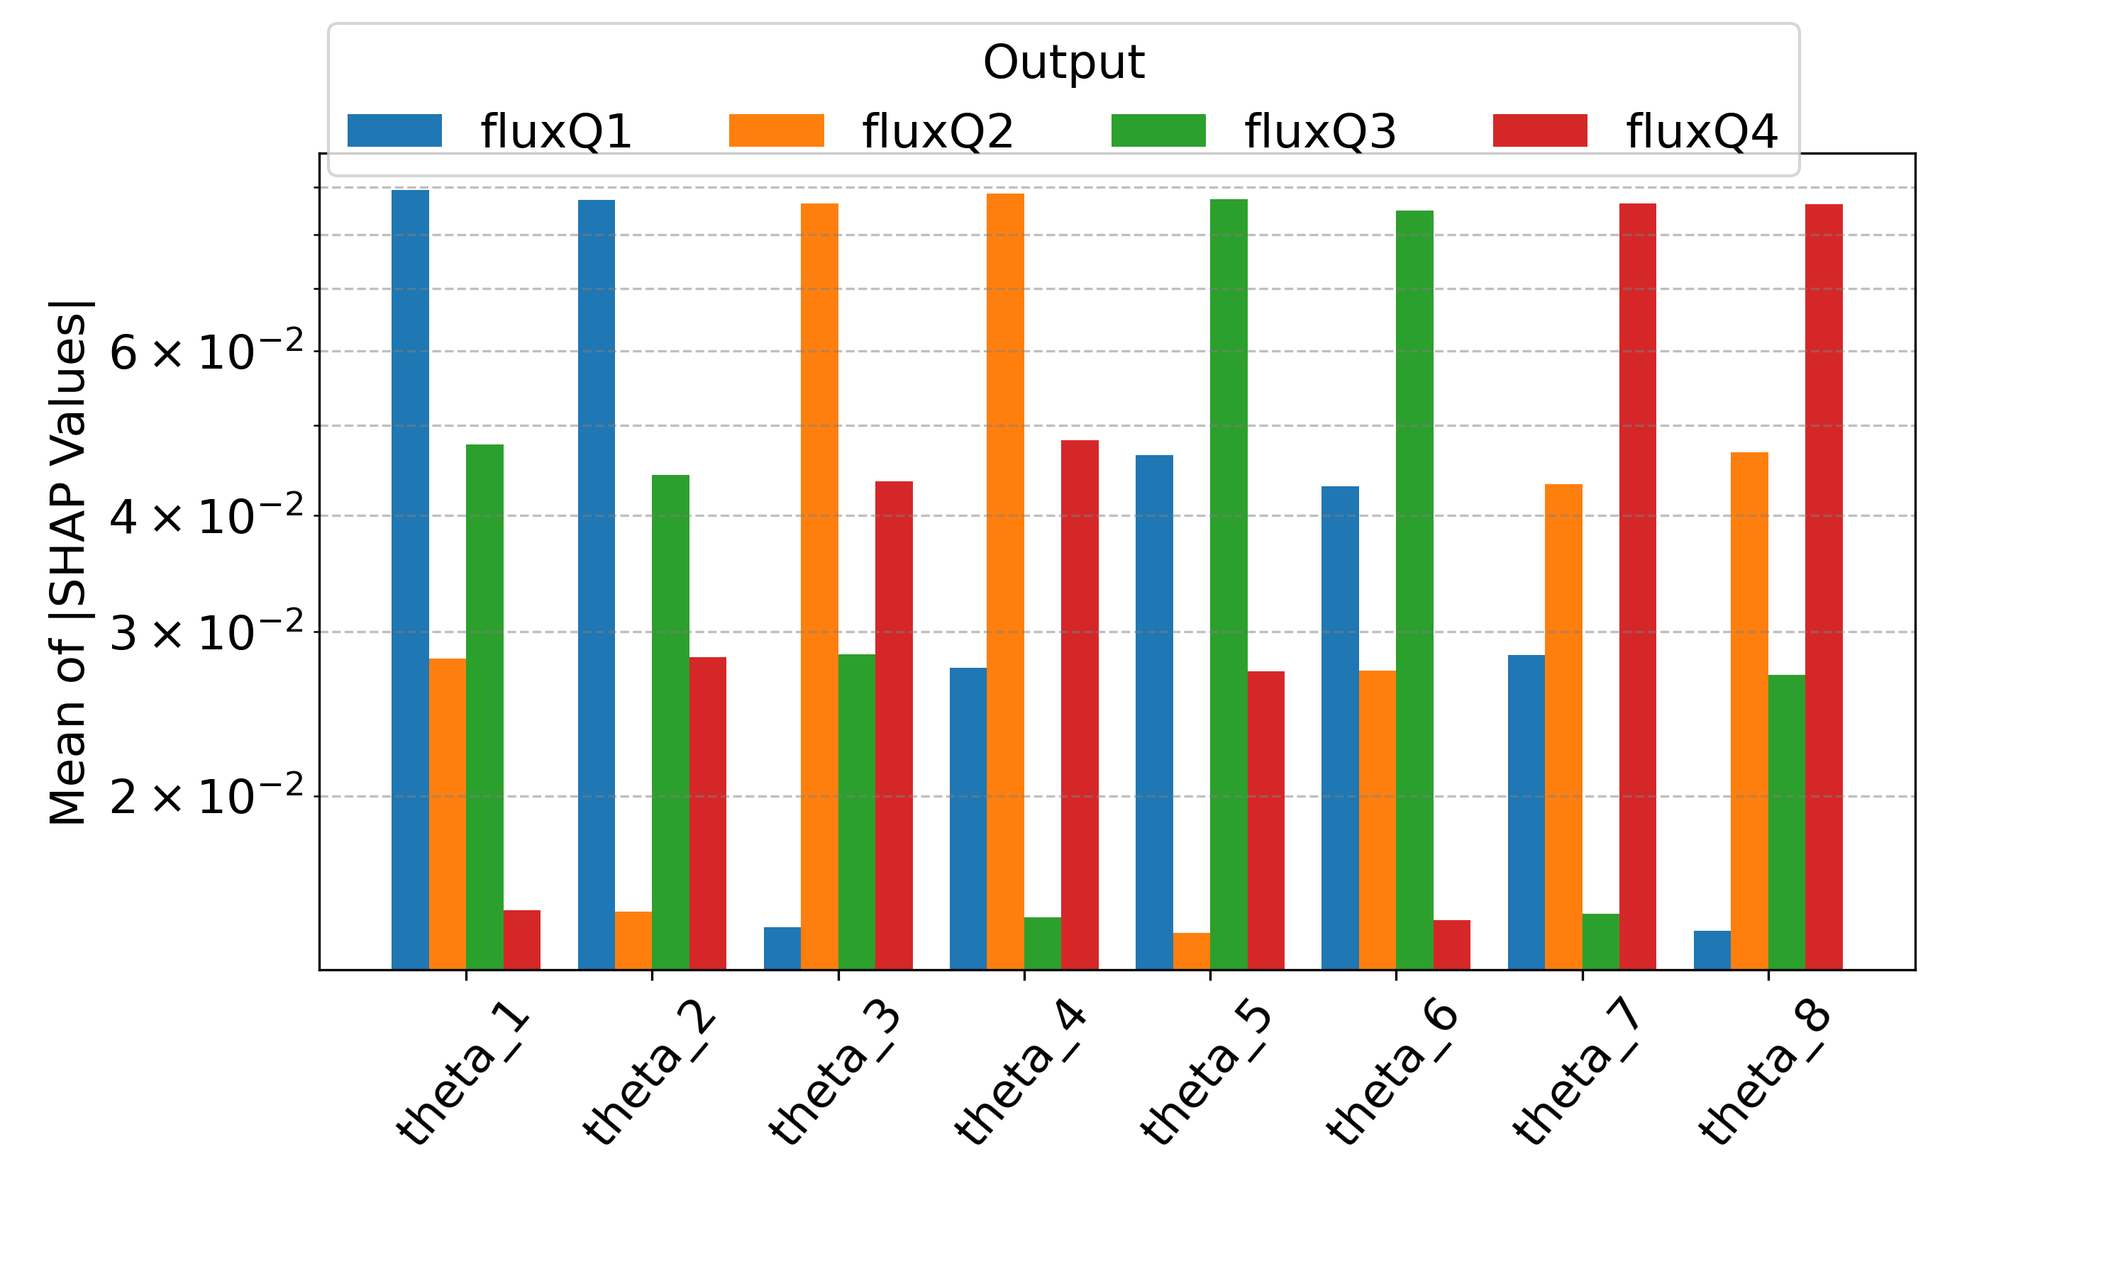
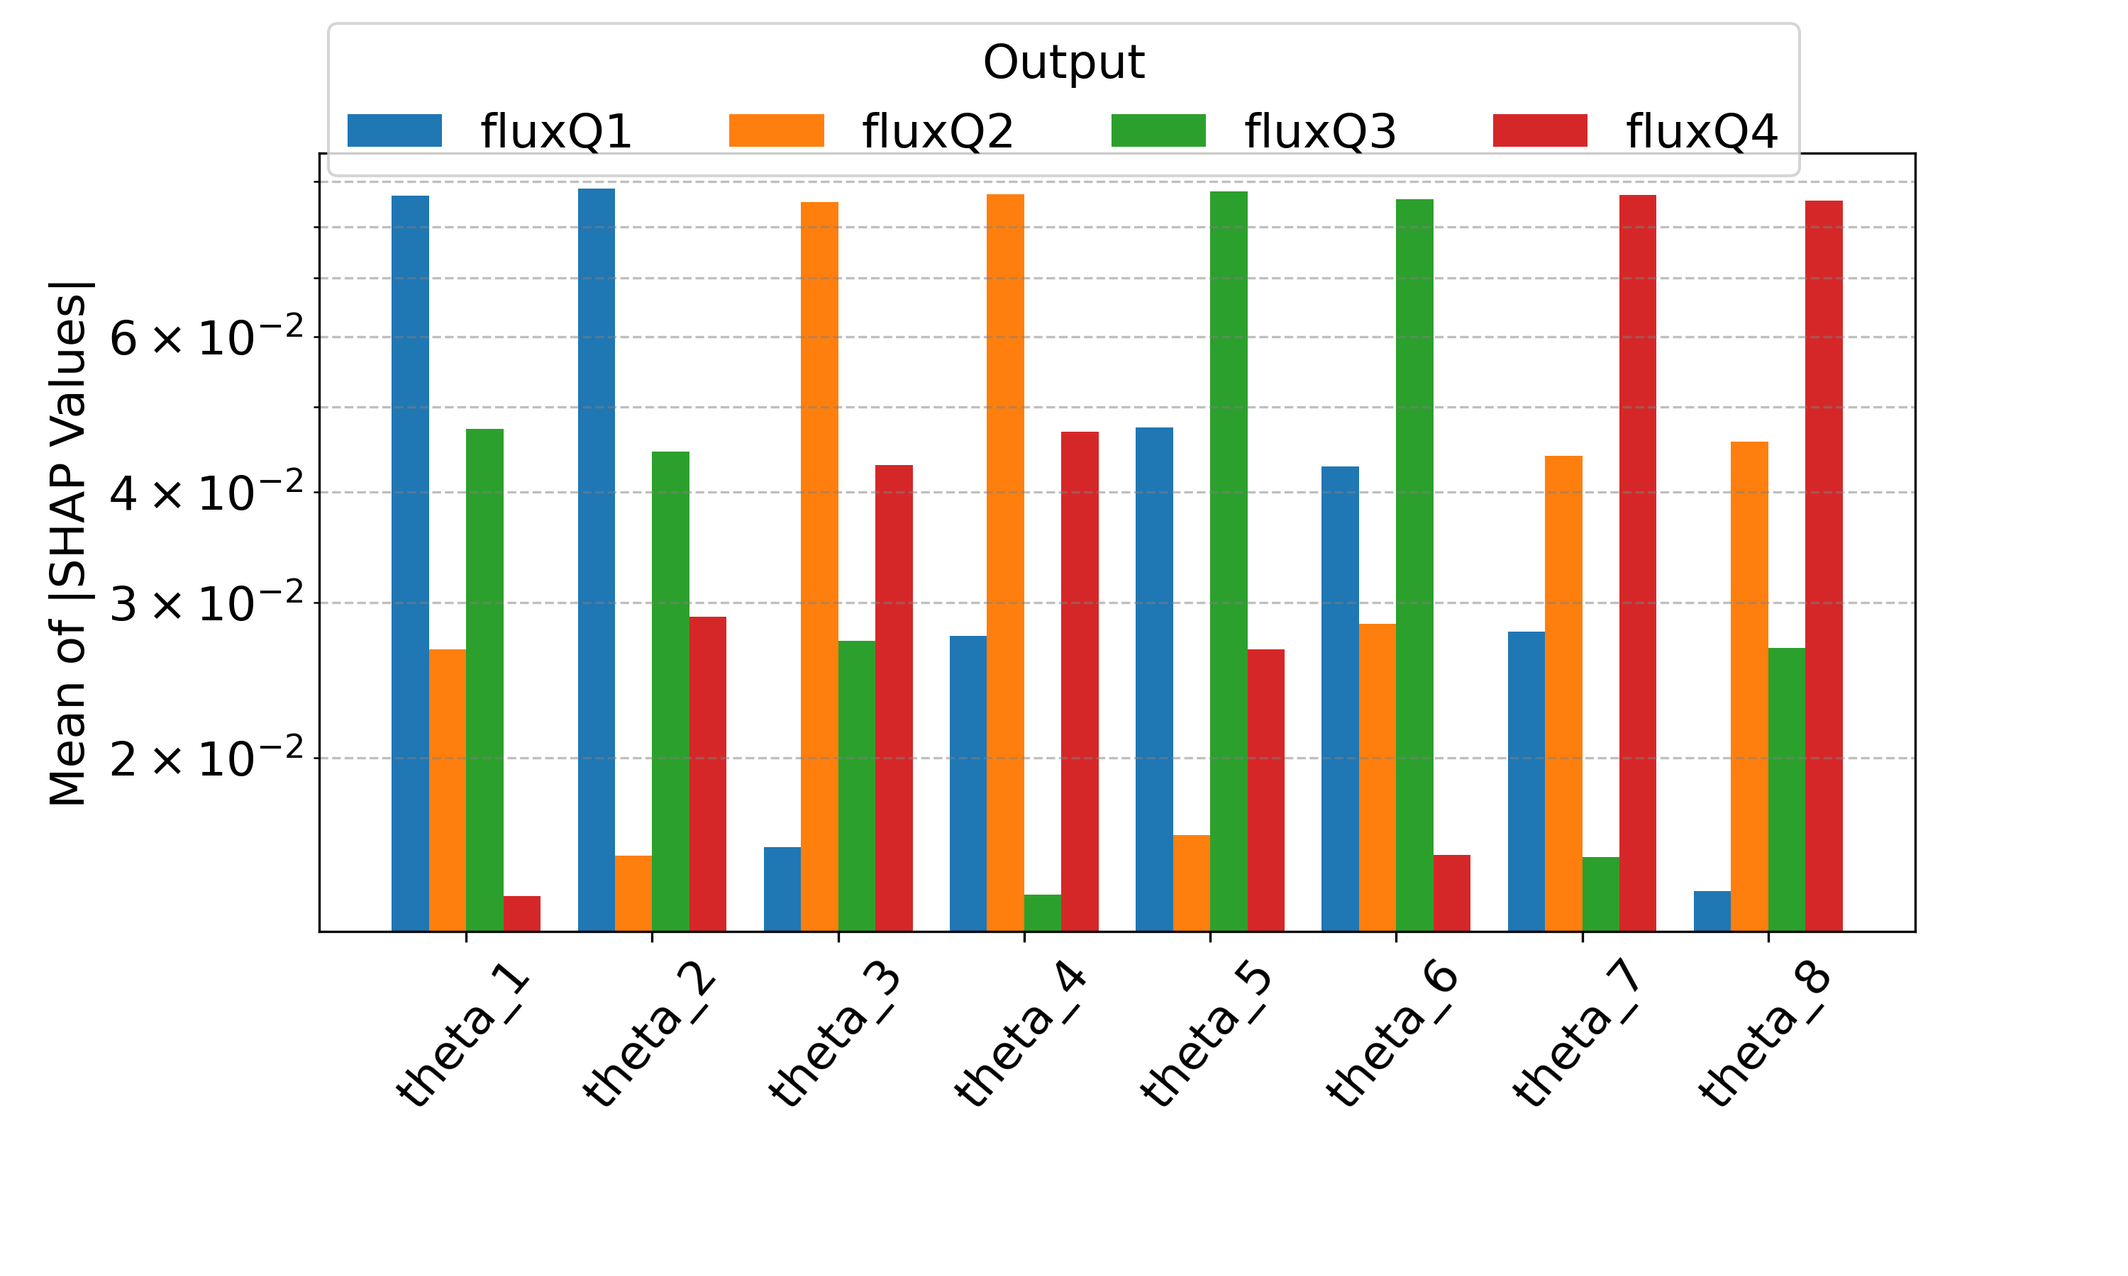
re-runs htgr, fp, and xs for sig figs

diff --git a/fnn.py b/fnn.py
@@ -91,7 +91,7 @@ def fit_fnn(params, plot=False, save_as=None):
     y_preds, y_tests = get_metrics(model, test_loader, dataset['y_scaler'], dataset, save_as=save_as)
     return model.cpu(), path
 
-def get_metrics(model, test_loader, scaler, dataset, save_as, p=5):
+def get_metrics(model, test_loader, scaler, dataset, save_as, p=20):
     """This function generates metrics on the original model training call, not with a loaded model.
 
     Args:
@@ -209,24 +209,24 @@ if __name__=="__main__":
     torch.set_default_dtype(torch.float64)
     device = torch.device('cuda' if torch.cuda.is_available() else 'cpu')
     pymaise_params = {
-        'chf': {
-            'hidden_nodes' : [231, 138, 267],
-            'num_epochs' : 200,
-            'batch_size' : 64,
-            'learning_rate' : 0.0009311391232267503,
-            'use_dropout': True,
-            'dropout_prob': 0.4995897609454529,
-            'dataset': get_chf
-        },
-        'bwr': {
-            'hidden_nodes' : [511, 367, 563, 441, 162],
-            'num_epochs' : 200,
-            'batch_size' : 8,
-            'learning_rate' : 0.0009660778027367906,
-            'use_dropout': False,
-            'dropout_prob': 0,
-            'dataset': get_bwr
-        },
+        # 'chf': {
+        #     'hidden_nodes' : [231, 138, 267],
+        #     'num_epochs' : 200,
+        #     'batch_size' : 64,
+        #     'learning_rate' : 0.0009311391232267503,
+        #     'use_dropout': True,
+        #     'dropout_prob': 0.4995897609454529,
+        #     'dataset': get_chf
+        # },
+        # 'bwr': {
+        #     'hidden_nodes' : [511, 367, 563, 441, 162],
+        #     'num_epochs' : 200,
+        #     'batch_size' : 8,
+        #     'learning_rate' : 0.0009660778027367906,
+        #     'use_dropout': False,
+        #     'dropout_prob': 0,
+        #     'dataset': get_bwr
+        # },
         'fp': {
             'hidden_nodes' : [66, 400],
             'num_epochs' : 200,
@@ -236,15 +236,15 @@ if __name__=="__main__":
             'dropout_prob': 0,
             'dataset': get_fp
         },
-        'heat': {
-            'hidden_nodes' : [251, 184, 47],
-            'num_epochs' : 200,
-            'batch_size' : 8,
-            'learning_rate' : 0.0008821712781015931,
-            'use_dropout': False,
-            'dropout_prob': 0,
-            'dataset': get_heat
-        },
+        # 'heat': {
+        #     'hidden_nodes' : [251, 184, 47],
+        #     'num_epochs' : 200,
+        #     'batch_size' : 8,
+        #     'learning_rate' : 0.0008821712781015931,
+        #     'use_dropout': False,
+        #     'dropout_prob': 0,
+        #     'dataset': get_heat
+        # },
         'htgr': {
             'hidden_nodes' : [199, 400],
             'num_epochs' : 200,
@@ -254,24 +254,24 @@ if __name__=="__main__":
             'dropout_prob': 0.3225718287912892,
             'dataset': get_htgr
         },
-        'mitr': {
-            'hidden_nodes' : [309],
-            'num_epochs' : 200,
-            'batch_size' : 8,
-            'learning_rate' : 0.0008321972582830564,
-            'use_dropout': False,
-            'dropout_prob': 0,
-            'dataset': partial(get_mitr, region='FULL')            
-        },
-        'rea': {
-            'hidden_nodes' : [326, 127],
-            'num_epochs' : 200,
-            'batch_size' : 8,
-            'learning_rate' : 0.0009444837105276597,
-            'use_dropout': False,
-            'dropout_prob': 0,
-            'dataset': get_rea            
-        },
+        # 'mitr': {
+        #     'hidden_nodes' : [309],
+        #     'num_epochs' : 200,
+        #     'batch_size' : 8,
+        #     'learning_rate' : 0.0008321972582830564,
+        #     'use_dropout': False,
+        #     'dropout_prob': 0,
+        #     'dataset': partial(get_mitr, region='FULL')            
+        # },
+        # 'rea': {
+        #     'hidden_nodes' : [326, 127],
+        #     'num_epochs' : 200,
+        #     'batch_size' : 8,
+        #     'learning_rate' : 0.0009444837105276597,
+        #     'use_dropout': False,
+        #     'dropout_prob': 0,
+        #     'dataset': get_rea            
+        # },
         'xs': {
             'hidden_nodes' : [95],
             'num_epochs' : 200,
@@ -281,56 +281,56 @@ if __name__=="__main__":
             'dropout_prob': 0,
             'dataset': get_xs            
         },
-        'mitr_a': {
-            'hidden_nodes' : [309],
-            'num_epochs' : 200,
-            'batch_size' : 8,
-            'learning_rate' : 0.0008321972582830564,
-            'use_dropout': False,
-            'dropout_prob': 0,
-            'dataset': partial(get_mitr, region='A')            
-        },
-        'mitr_b': {
-            'hidden_nodes' : [309],
-            'num_epochs' : 200,
-            'batch_size' : 8,
-            'learning_rate' : 0.0008321972582830564,
-            'use_dropout': False,
-            'dropout_prob': 0,
-            'dataset': partial(get_mitr, region='B')            
-        },
-        'mitr_c': {
-            'hidden_nodes' : [309],
-            'num_epochs' : 200,
-            'batch_size' : 8,
-            'learning_rate' : 0.0008321972582830564,
-            'use_dropout': False,
-            'dropout_prob': 0,
-            'dataset': partial(get_mitr, region='C')            
-        },        
+        # 'mitr_a': {
+        #     'hidden_nodes' : [309],
+        #     'num_epochs' : 200,
+        #     'batch_size' : 8,
+        #     'learning_rate' : 0.0008321972582830564,
+        #     'use_dropout': False,
+        #     'dropout_prob': 0,
+        #     'dataset': partial(get_mitr, region='A')            
+        # },
+        # 'mitr_b': {
+        #     'hidden_nodes' : [309],
+        #     'num_epochs' : 200,
+        #     'batch_size' : 8,
+        #     'learning_rate' : 0.0008321972582830564,
+        #     'use_dropout': False,
+        #     'dropout_prob': 0,
+        #     'dataset': partial(get_mitr, region='B')            
+        # },
+        # 'mitr_c': {
+        #     'hidden_nodes' : [309],
+        #     'num_epochs' : 200,
+        #     'batch_size' : 8,
+        #     'learning_rate' : 0.0008321972582830564,
+        #     'use_dropout': False,
+        #     'dropout_prob': 0,
+        #     'dataset': partial(get_mitr, region='C')            
+        # },        
     }
     model_path_dict = {
-        'chf': [get_chf, 'models/CHF_2025-03-17.pt'],
-        'bwr': [get_bwr, 'models/BWR_2025-03-17.pt'], 
-        'fp': [get_fp, 'models/FP_2025-03-17.pt'], 
-        'heat': [get_heat, 'models/HEAT_2025-03-17.pt'], 
-        'htgr': [get_htgr, 'models/HTGR_2025-03-17.pt'], 
-        'mitr': [partial(get_mitr, region='FULL'), 'models/MITR_2025-03-17.pt'], 
-        'rea': [get_rea, 'models/REA_2025-03-17.pt'], 
-        'xs': [get_xs, 'models/XS_2025-03-17.pt'], 
-        'mitr_a': [partial(get_mitr, region='A'), 'models/MITR_A_2025-03-17.pt'], 
-        'mitr_b': [partial(get_mitr, region='B'), 'models/MITR_B_2025-03-17.pt'], 
-        'mitr_c': [partial(get_mitr, region='C'), 'models/MITR_C_2025-03-17.pt']
+        # 'chf': [get_chf, 'models/CHF_2025-03-17.pt'],
+        # 'bwr': [get_bwr, 'models/BWR_2025-03-17.pt'], 
+        # 'fp': [get_fp, 'models/FP_2025-04-03.pt'], 
+        # 'heat': [get_heat, 'models/HEAT_2025-03-17.pt'], 
+        'htgr': [get_htgr, 'models/HTGR_2025-04-03.pt'], 
+        # 'mitr': [partial(get_mitr, region='FULL'), 'models/MITR_2025-03-17.pt'], 
+        # 'rea': [get_rea, 'models/REA_2025-03-17.pt'], 
+        'xs': [get_xs, 'models/XS_2025-04-03.pt'], 
+        # 'mitr_a': [partial(get_mitr, region='A'), 'models/MITR_A_2025-03-17.pt'], 
+        # 'mitr_b': [partial(get_mitr, region='B'), 'models/MITR_B_2025-03-17.pt'], 
+        # 'mitr_c': [partial(get_mitr, region='C'), 'models/MITR_C_2025-03-17.pt']
     }
     shap_path_dict = {
         # 'chf': 'shap-values/CHF_fnn_2025-03-18.pkl', 
         # 'bwr': 'shap-values/BWR_fnn_2025-03-18.pkl', 
-        # 'fp': 'shap-values/FP_fnn_2025-03-18.pkl', 
+        'fp': 'shap-values/FP_fnn_2025-04-03.pkl', 
         # 'heat': 'shap-values/HEAT_fnn_2025-03-18.pkl', 
-        # 'htgr': 'shap-values/HTGR_fnn_2025-03-18.pkl', 
+        'htgr': 'shap-values/HTGR_fnn_2025-04-03.pkl', 
         # 'mitr': 'shap-values/MITR_fnn_2025-03-18.pkl', 
         # 'rea': 'shap-values/REA_fnn_2025-03-18.pkl', 
-        'xs': 'shap-values/XS_fnn_2025-03-18.pkl', 
+        'xs': 'shap-values/XS_fnn_2025-04-03.pkl', 
         # 'mitr_a': 'shap-values/MITR_A_fnn_2025-03-18.pkl', 
         # 'mitr_b': 'shap-values/MITR_B_fnn_2025-03-18.pkl', 
         # 'mitr_c': 'shap-values/MITR_C_fnn_2025-03-18.pkl'

diff --git a/explainability.py b/explainability.py
@@ -74,7 +74,7 @@ def get_kan_shap(datasets_dict):
         shap_paths[model] = path
     return shap_paths
 
-def fnn_shap(model, X_train, X_test, input_names, output_names, save_as, k=50):
+def fnn_shap(model, X_train, X_test, input_names, output_names, save_as, k=50, kcheck=False):
     """gets feature importances using kernel shap for an fnn
 
     Args:
@@ -98,14 +98,15 @@ def fnn_shap(model, X_train, X_test, input_names, output_names, save_as, k=50):
         os.makedirs('shap-values')
     path = f'shap-values/{save_as}_fnn_{str(dt.date.today())}.pkl'
     shap_mean.to_pickle(path)
-    fig, ax = plt.subplots()
-    ax.scatter(X_train[:,0], X_train[:,1], label='X_train')
-    ax.scatter(X_train_summary.data[:,0], X_train_summary.data[:,1], label='X_train_summary', color='red')
-    ax.legend()
-    ax.set_xlabel(f'{input_names[0]}')
-    ax.set_ylabel(f'{input_names[1]}')
-    ax.set_title(f'k = {k}')
-    plt.savefig(f'figures/fnn-shap/{save_as}_KCHECK.png', dpi=300)
+    if kcheck:
+        fig, ax = plt.subplots()
+        ax.scatter(X_train[:,0], X_train[:,1], label='X_train')
+        ax.scatter(X_train_summary.data[:,0], X_train_summary.data[:,1], label='X_train_summary', color='red')
+        ax.legend()
+        ax.set_xlabel(f'{input_names[0]}')
+        ax.set_ylabel(f'{input_names[1]}')
+        ax.set_title(f'k = {k}')
+        plt.savefig(f'figures/fnn-shap/{save_as}_KCHECK.png', dpi=300)
     return path
 
 def plot_shap(path, save_as, type='kan', width=0.2):
@@ -189,30 +190,30 @@ def plot_stacked(kan_path, fnn_path, save_as, width=0.2):
 if __name__=="__main__":
     datasets_dict = {
         'fp': [get_fp, 'equations/FP_2025-03-04.txt'],
-        'bwr': [get_bwr, 'equations/BWR_2025-03-05.txt'],
-        'heat': [get_heat, 'equations/HEAT_2025-03-05.txt'],
+        # 'bwr': [get_bwr, 'equations/BWR_2025-03-05.txt'],
+        # 'heat': [get_heat, 'equations/HEAT_2025-03-05.txt'],
         'htgr': [get_htgr, 'equations/HTGR_2025-03-05.txt'],
-        'mitr_a': [partial(get_mitr, region='A'), 'equations/MITR_A_2025-03-05.txt'],
-        'mitr_b': [partial(get_mitr, region='B'), 'equations/MITR_B_2025-03-05.txt'],
-        'mitr_c': [partial(get_mitr, region='C'), 'equations/MITR_C_2025-03-05.txt'],
-        'mitr': [partial(get_mitr, region='FULL'), 'equations/MITR_2025-03-05.txt'],
-        'chf': [get_chf, 'equations/CHF_2025-03-05.txt'],
-        'rea': [get_rea, 'equations/REA_2025-03-05.txt'],
+        # 'mitr_a': [partial(get_mitr, region='A'), 'equations/MITR_A_2025-03-05.txt'],
+        # 'mitr_b': [partial(get_mitr, region='B'), 'equations/MITR_B_2025-03-05.txt'],
+        # 'mitr_c': [partial(get_mitr, region='C'), 'equations/MITR_C_2025-03-05.txt'],
+        # 'mitr': [partial(get_mitr, region='FULL'), 'equations/MITR_2025-03-05.txt'],
+        # 'chf': [get_chf, 'equations/CHF_2025-03-05.txt'],
+        # 'rea': [get_rea, 'equations/REA_2025-03-05.txt'],
         'xs': [get_xs, 'equations/XS_2025-03-05.txt']
     }
 
     shap_path_dict = {
-        'fp': 'shap-values/FP_kan_2025-03-18.pkl', 
-        'bwr': 'shap-values/BWR_kan_2025-03-18.pkl', 
-        'heat': 'shap-values/HEAT_kan_2025-03-18.pkl', 
-        'htgr': 'shap-values/HTGR_kan_2025-03-18.pkl', 
-        'mitr_a': 'shap-values/MITR_A_kan_2025-03-18.pkl', 
-        'mitr_b': 'shap-values/MITR_B_kan_2025-03-18.pkl', 
-        'mitr_c': 'shap-values/MITR_C_kan_2025-03-18.pkl', 
-        'mitr': 'shap-values/MITR_kan_2025-03-18.pkl', 
-        'chf': 'shap-values/CHF_kan_2025-03-18.pkl', 
-        'rea': 'shap-values/REA_kan_2025-03-18.pkl', 
-        'xs': 'shap-values/XS_kan_2025-03-18.pkl'
+        'fp': 'shap-values/FP_kan_2025-04-03.pkl', 
+        # 'bwr': 'shap-values/BWR_kan_2025-03-18.pkl', 
+        # 'heat': 'shap-values/HEAT_kan_2025-03-18.pkl', 
+        'htgr': 'shap-values/HTGR_kan_2025-04-03.pkl', 
+        # 'mitr_a': 'shap-values/MITR_A_kan_2025-03-18.pkl', 
+        # 'mitr_b': 'shap-values/MITR_B_kan_2025-03-18.pkl', 
+        # 'mitr_c': 'shap-values/MITR_C_kan_2025-03-18.pkl', 
+        # 'mitr': 'shap-values/MITR_kan_2025-03-18.pkl', 
+        # 'chf': 'shap-values/CHF_kan_2025-03-18.pkl', 
+        # 'rea': 'shap-values/REA_kan_2025-03-18.pkl', 
+        'xs': 'shap-values/XS_kan_2025-04-03.pkl'
         }
 
     # # uncomment to calculate kan shap values
@@ -220,12 +221,12 @@ if __name__=="__main__":
     # print(paths_dict)
 
     # uncomment to make shap kan plots
-    # for model, path in shap_path_dict.items():
-    #     plot_shap(path, save_as=f'{model}_kan', type='kan', width=0.2)
+    for model, path in shap_path_dict.items():
+        plot_shap(path, save_as=f'{model}_kan', type='kan', width=0.2)
 
     ## uncomment to print shap values
     # for model, path in shap_path_dict.items():
     #     print_shap(path, save_as=f'{model}', type='kan')
 
     # # make stacked plot for CHF and HEAT
-    plot_stacked(kan_path=shap_path_dict['chf'], fnn_path='shap-values/CHF_fnn_2025-03-18.pkl', save_as='CHF', width=0.2)
+    # plot_stacked(kan_path=shap_path_dict['chf'], fnn_path='shap-values/CHF_fnn_2025-03-18.pkl', save_as='CHF', width=0.2)

diff --git a/run.py b/run.py
@@ -21,7 +21,7 @@ rea_best = {'depth': 1, 'grid': 6, 'k': 8, 'lamb': 3.79496703629217e-05, 'lamb_e
 xs_best = {'depth': 2, 'grid': 9, 'k': 4, 'lamb': 0.00039029273996368227, 'lamb_entropy': 0.42860645226254324, 'lr_1': 1.25, 'lr_2': 1.25, 'reg_metric': 'edge_forward_spline_u', 'steps': 100}
 
 def run_model(device, dataset, params, run_name, lib=None):
-    kan = NKAN(dataset, 83, device, params)
+    kan = NKAN(dataset, 42, device, params)
     model = kan.get_model()
     spline_metrics = kan.get_metrics(model, run_name)
     equation = kan.get_equation(model, run_name, simple=0, lib=None)
@@ -34,15 +34,15 @@ if __name__=="__main__":
     os.environ["CUDA_VISIBLE_DEVICES"]="2"
     datasets_dict = {
         'fp': [get_fp, fp_best],
-        'bwr': [get_bwr, bwr_best],
-        'heat': [get_heat, heat_best],
+        # 'bwr': [get_bwr, bwr_best],
+        # 'heat': [get_heat, heat_best],
         'htgr': [get_htgr, htgr_best],
-        'mitr_a': [partial(get_mitr, region='A'), mitr_a_best],
-        'mitr_b': [partial(get_mitr, region='B'), mitr_b_best],
-        'mitr_c': [partial(get_mitr, region='C'), mitr_c_best],
-        'mitr': [partial(get_mitr, region='FULL'), mitr_best],
-        'chf': [get_chf, chf_best],
-        'rea': [get_rea, rea_best],
+        # 'mitr_a': [partial(get_mitr, region='A'), mitr_a_best],
+        # 'mitr_b': [partial(get_mitr, region='B'), mitr_b_best],
+        # 'mitr_c': [partial(get_mitr, region='C'), mitr_c_best],
+        # 'mitr': [partial(get_mitr, region='FULL'), mitr_best],
+        # 'chf': [get_chf, chf_best],
+        # 'rea': [get_rea, rea_best],
         'xs': [get_xs, xs_best]
     }
     device = torch.device('cuda' if torch.cuda.is_available() else 'cpu')

diff --git a/hypersort.py b/hypersort.py
@@ -105,7 +105,8 @@ def merge_metrics(name, kan, fnn):
     merged.sort_values(by='OUTPUT', inplace=True)
     merged.drop('CONVERSION_TIME', axis=1, inplace=True)
     merged.reset_index(drop=True, inplace=True)
-    to_latex = merged.to_latex(float_format="%.5f", index=False, longtable=True)
+    # to_latex = merged.to_latex(float_format="%.5f", index=False, longtable=True)
+    to_latex = merged.to_latex(index=False, longtable=True)
     print(to_latex)
     return merged
 
@@ -148,11 +149,16 @@ if __name__=="__main__":
         "lr_2": ["hp.choice", [0.5, 0.75, 1, 1.25, 1.5, 1.75, 2]],
     }
     # # To generate all results, uncomment and run lines below:
-    get_top(hyperparams_dict)
-    for key in hyperparams_dict.keys()
-        sort_params(hyperparams_dict[key])
-    print_space(space)
-    for name, files in results_dict.items():
-        merge_metrics(name, files[0], files[1])
+    # get_top(hyperparams_dict)
+    # for key in hyperparams_dict.keys()
+    #     sort_params(hyperparams_dict[key])
+    # print_space(space)
+    # for name, files in results_dict.items():
+    #     merge_metrics(name, files[0], files[1])
+
+    merge_metrics('xs', 'results/XS_2025-04-03_symetrics.csv', 'results/XS_2025-04-03_FNN.csv')
+    merge_metrics('htgr', 'results/HTGR_2025-04-03_symetrics.csv', 'results/HTGR_2025-04-03_FNN.csv')
+    merge_metrics('fp', 'results/FP_2025-04-03_symetrics.csv', 'results/FP_2025-04-03_FNN.csv')
+
 
 

diff --git a/main.py b/main.py
@@ -189,7 +189,7 @@ class NKAN():
             y_test = scaler.inverse_transform(Y_test.detach().numpy())  # unscaled
         expressions = [ex_round(model.symbolic_formula()[0][i], 4) for i in range(n_outputs)]
         y_pred = y_pred_sym(expressions, num_vars, X_test, scaler, str(self.device))
-        metrics_df = metrics(self.dataset['output_labels'], y_test, y_pred, p=4)
+        metrics_df = metrics(self.dataset['output_labels'], y_test, y_pred, p=20)
         metrics_df['CONVERSION_TIME'] = end - start
         # save symbolic metrics to results 
         if not os.path.exists('results'):
